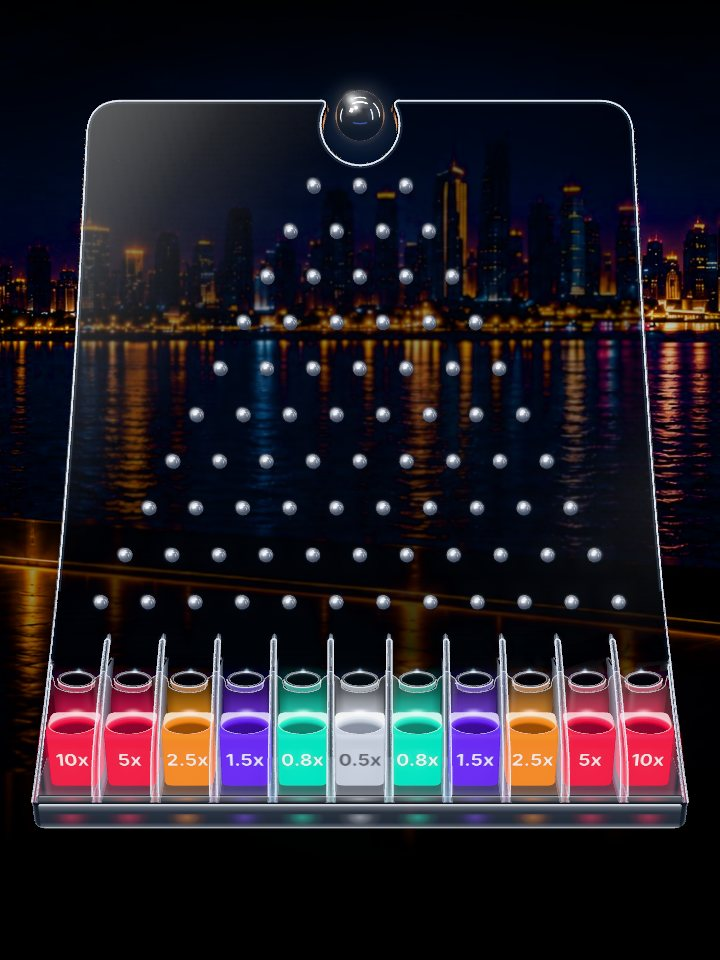
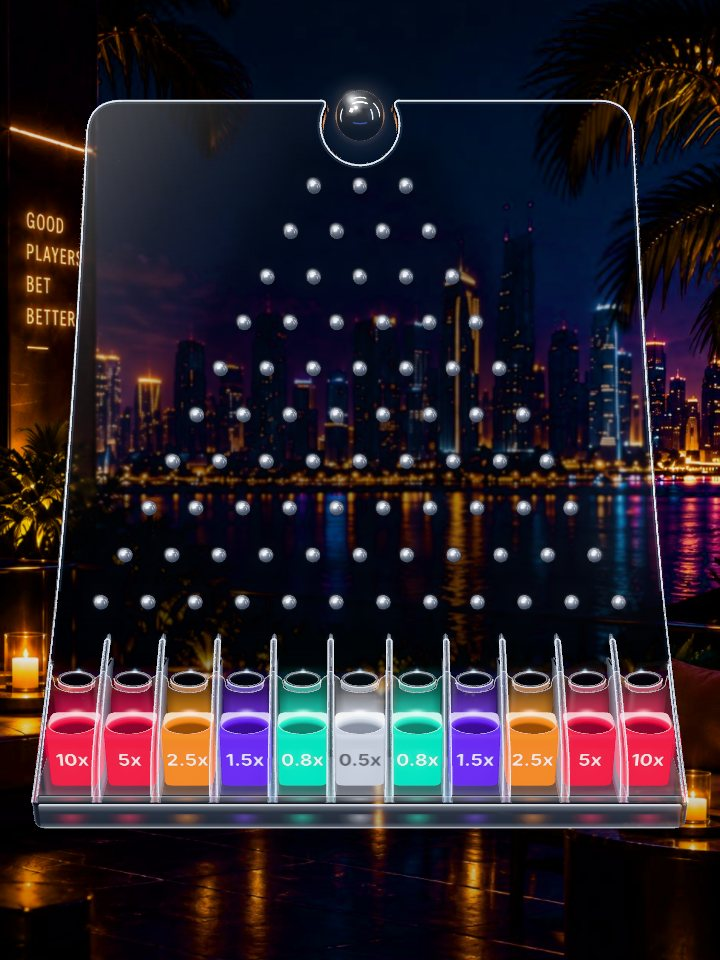
Give the Plinko backdrop a tall portrait photo for narrow screens

diff --git a/games/plinko/web/js/board/background.js b/games/plinko/web/js/board/background.js
@@ -1,50 +1,57 @@
 // The night-city backdrop, drawn in the scene so the tinted back panel can sample the
-// same pixels behind the board. Cover-fitting the photo on a phone showed about a
-// fifth of its width, which upscaled it past its resolution; a narrow screen now shows
-// at least MIN_SPAN of the width and every screen ZOOM beyond cover. The photo's band
-// is centred on the board (bandY, 0 at the bottom) and its edges fade into the ground.
+// same pixels behind the board. Two photos of one scene: a wide one and a tall one, and
+// the view shows whichever is nearer its own shape, with the photo's anchor height (0
+// at the bottom) on the board's band (bandY). A view taller than its photo crops it to
+// cover; a wider one shows ZOOM beyond cover, and until the tall photo arrives a narrow
+// view shows at least MIN_SPAN of the wide one's width, fading its edges into the ground.
 export const BACKGROUND_GLSL = `
 uniform sampler2D map;
-uniform float has, imageAspect, viewAspect, bandY;
-const float ZOOM = 1.15, MIN_SPAN = .4;
+uniform float has, imageAspect, viewAspect, bandY, anchor;
+const float ZOOM = 1.15, MIN_SPAN = .4, SATURATION = 1.12;
 
-float band(float t) {
-  if (t < .22) return mix(.92, .12, t / .22);
-  if (t < .42) return mix(.12, 0., (t - .18) / .24);
-  if (t < .66) return mix(0., .45, (t - .42) / .24);
-  if (t < .84) return mix(.45, .88, (t - .66) / .18);
-  return mix(.88, .6, (t - .84) / .16);
+float shade(float t) {
+  return .3 * (1. - smoothstep(0., .2, t)) + .35 * smoothstep(.7, 1., t);
 }
 
 vec3 backgroundAt(vec2 q) {
   vec3 c = vec3(.004, .006, .01);
   if (has > .5) {
     float r = viewAspect / imageAspect;
-    if (r > 1.) {
-      c = texture2D(map, vec2(q.x, (q.y - .5) / r + .5)).rgb;
-    } else {
-      float span = min(1., max(r * ZOOM, MIN_SPAN)), height = r / span;
-      vec2 uv = vec2((q.x - .5) * span + .5, (q.y - bandY) / height + .5);
-      float beyond = max(-uv.y, uv.y - 1.) * height;
-      c = texture2D(map, clamp(uv, 0., 1.)).rgb * (1. - smoothstep(0., .08, beyond));
-    }
+    float span = r > 1. ? 1. : min(1., max(r * ZOOM, MIN_SPAN));
+    float shown = span / r;
+    float start = anchor - bandY * shown;
+    if (shown <= 1.) start = clamp(start, 0., 1. - shown);
+    vec2 uv = vec2((q.x - .5) * span + .5, start + q.y * shown);
+    float beyond = max(-uv.y, uv.y - 1.) / shown;
+    c = texture2D(map, clamp(uv, 0., 1.)).rgb * (1. - smoothstep(0., .08, beyond));
+    c = max(mix(vec3(dot(c, vec3(.2126, .7152, .0722))), c, SATURATION), 0.);
   }
-  c *= 1. - band(1. - q.y);
+  c *= 1. - shade(1. - q.y);
   vec2 p = (q - vec2(.5, .58)) / vec2(.55, .6);
-  c *= 1. - smoothstep(.45, 1., length(p)) * .55;
+  c *= 1. - smoothstep(.45, 1., length(p)) * .2;
   return c;
 }
 `
 
-export function createBackground(kit, url, onLoad) {
+// The tall photo's tagline is painted on its pillar, so the frame's own left tagline
+// stands down while that photo shows.
+const PHOTOS = {
+  wide: { url: 'img/city.jpg', anchor: 0.5, paintsTagline: false },
+  tall: { url: 'img/city-portrait.jpg', anchor: 0.62, paintsTagline: true },
+}
+
+export function createBackground(kit, onLoad) {
   const { T, scene } = kit
   const uniforms = {
     map: { value: null },
     has: { value: 0 },
-    imageAspect: { value: 1916 / 821 },
+    imageAspect: { value: 1 },
     viewAspect: { value: 1 },
     bandY: { value: 0.5 },
+    anchor: { value: 0.5 },
   }
+  const loaded = {}
+  let shown = null
 
   const material = new T.ShaderMaterial({
     uniforms,
@@ -69,22 +76,45 @@ export function createBackground(kit, url, onLoad) {
   quad.renderOrder = -1000
   scene.add(quad)
 
-  new T.TextureLoader().load(url, (texture) => {
-    texture.colorSpace = T.SRGBColorSpace
-    texture.minFilter = T.LinearMipmapLinearFilter
-    texture.generateMipmaps = true
-    uniforms.map.value = texture
+  // The tall photo suits views narrower than the geometric mean of the two aspects.
+  function pick() {
+    const { wide, tall } = loaded
+    const choice =
+      wide && tall
+        ? uniforms.viewAspect.value < Math.sqrt(wide.aspect * tall.aspect)
+          ? tall
+          : wide
+        : (wide ?? tall ?? null)
+    shown = choice
+    if (!choice) return
+    uniforms.map.value = choice.texture
+    uniforms.imageAspect.value = choice.aspect
+    uniforms.anchor.value = choice.anchor
     uniforms.has.value = 1
-    uniforms.imageAspect.value = texture.image.width / texture.image.height
-    onLoad()
-  })
+  }
+
+  for (const [name, photo] of Object.entries(PHOTOS)) {
+    new T.TextureLoader().load(photo.url, (texture) => {
+      texture.colorSpace = T.SRGBColorSpace
+      texture.minFilter = T.LinearMipmapLinearFilter
+      texture.generateMipmaps = true
+      loaded[name] = { ...photo, texture, aspect: texture.image.width / texture.image.height }
+      pick()
+      onLoad()
+    })
+  }
 
   return {
     uniforms,
 
+    get paintsTagline() {
+      return shown?.paintsTagline ?? false
+    },
+
     resize(width, height, stage) {
       uniforms.viewAspect.value = width / height
       uniforms.bandY.value = 1 - (stage.y + stage.height * 0.42) / height
+      pick()
     },
   }
 }

diff --git a/games/plinko/web/js/board/pane.js b/games/plinko/web/js/board/pane.js
@@ -14,6 +14,7 @@ import {
   PEG_RADIUS,
   PEG_SPACING,
   ROWS,
+  ROW_BOTTOM,
   ROW_HEIGHT,
   ROW_TOP,
   TILT,
@@ -30,7 +31,7 @@ export function buildPane(kit) {
   const upper = leaningFrame(T)
   scene.add(upper)
 
-  scene.add(new T.Mesh(bentGlass(kit, shape), kit.glass({ color: 0xc4ccd8, roughness: 0.05, thickness: 0.35, envMapIntensity: 1.1 })))
+  scene.add(new T.Mesh(bentGlass(kit, shape), kit.glass({ color: 0xe8edf4, roughness: 0, thickness: 0.35, envMapIntensity: 1.1 })))
   addSheen(kit, shape)
   addRim(kit, shape)
 
@@ -129,8 +130,8 @@ function bentGlass(kit, shape) {
   return geometry
 }
 
-// A diagonal sheen across the face, over a faint dimming layer that keeps the city
-// behind the pane from competing with the pegs.
+// A diagonal sheen across the face, over a dimming layer behind the peg field alone that
+// keeps the city from competing with the pegs while the rest of the glass shows it clear.
 function addSheen(kit, shape) {
   const { T, scene } = kit
   const flat = new T.ShapeGeometry(shape, 24)
@@ -156,14 +157,44 @@ function addSheen(kit, shape) {
   ])
   const sheen = new T.Mesh(
     geometry,
-    new T.MeshBasicMaterial({ map: texture, transparent: true, opacity: 0.5, ...kit.additive, depthWrite: false, toneMapped: false }),
+    new T.MeshBasicMaterial({ map: texture, transparent: true, opacity: 0.35, ...kit.additive, depthWrite: false, toneMapped: false }),
   )
   sheen.renderOrder = 4
   scene.add(sheen)
 
-  const dim = new T.Mesh(geometry, new T.MeshBasicMaterial({ color: 0x03060c, transparent: true, opacity: 0.38, depthWrite: false }))
+  const dim = new T.Mesh(geometry, pegFieldDim(T))
   dim.renderOrder = 3
   scene.add(dim)
+}
+
+// Dark glass over the trapezoid the pegs span, half a spacing past the outer pegs and
+// feathered over one more. The sheen's UVs carry the flat pane position.
+function pegFieldDim(T) {
+  return new T.ShaderMaterial({
+    transparent: true,
+    depthWrite: false,
+    vertexShader: `
+      varying vec2 vUv;
+      void main() {
+        vUv = uv;
+        gl_Position = projectionMatrix * modelViewMatrix * vec4(position, 1.);
+      }`,
+    fragmentShader: `
+      const float SPACING = ${PEG_SPACING.toFixed(4)}, ROW_HEIGHT = ${ROW_HEIGHT.toFixed(4)};
+      const float ROW_TOP = ${ROW_TOP.toFixed(4)}, ROW_BOTTOM = ${ROW_BOTTOM.toFixed(4)};
+      const float BAY = ${BAY_HALF_WIDTH.toFixed(4)}, PANE_TOP = ${TOP.toFixed(4)};
+      const float PAD = SPACING * .5, FEATHER = SPACING, DIM = .5;
+      varying vec2 vUv;
+      void main() {
+        float x = abs(vUv.x * 2. - 1.) * BAY;
+        float y = vUv.y * PANE_TOP;
+        float halfWidth = SPACING * (1. + .5 * (ROW_TOP - y) / ROW_HEIGHT);
+        float slope = .5 * SPACING / ROW_HEIGHT;
+        float side = (x - halfWidth - PAD) / sqrt(1. + slope * slope);
+        float d = max(side, max(y - ROW_TOP - PAD, ROW_BOTTOM - PAD - y));
+        gl_FragColor = vec4(vec3(.001, .002, .004), DIM * (1. - smoothstep(0., FEATHER, d)));
+      }`,
+  })
 }
 
 // Polished edges along the pane's outline above the tray join; below it the side

diff --git a/games/plinko/web/js/ui.js b/games/plinko/web/js/ui.js
@@ -19,8 +19,10 @@ export const ui = {
   // mid-depth. That is the glass, measured down to the tagline's foot, or a host control
   // beside the board. Where the gutter has room they stand a short reach from what they
   // are beside, and no nearer the frame's edge than its inset; otherwise they centre in
-  // the gutter. When either gutter cannot hold its tagline clear, both step aside.
-  placeTaglines(board, width, controls) {
+  // the gutter. When either gutter cannot hold its tagline clear, both step aside. When
+  // the backdrop paints the left tagline itself, the left one stands down and the right
+  // one answers only to its own gutter.
+  placeTaglines(board, width, controls, leftPainted) {
     const { left, right } = this.taglines
     const centre = (board.left + board.right) / 2
     const depth = board.bottom - board.top
@@ -40,9 +42,10 @@ export const ui = {
       )
     const leftOffset = fitTagline(left, leftGutter)
     const rightOffset = fitTagline(right, rightGutter)
-    const visibility = leftOffset !== null && rightOffset !== null ? 'visible' : 'hidden'
-    Object.assign(left.style, { top: `${leftTop}px`, left: `${leftOffset ?? 0}px`, visibility })
-    Object.assign(right.style, { top: `${rightTop}px`, right: `${rightOffset ?? 0}px`, visibility })
+    const fits = rightOffset !== null && (leftPainted || leftOffset !== null)
+    const visibility = (shown) => (shown ? 'visible' : 'hidden')
+    Object.assign(left.style, { top: `${leftTop}px`, left: `${leftOffset ?? 0}px`, visibility: visibility(fits && !leftPainted) })
+    Object.assign(right.style, { top: `${rightTop}px`, right: `${rightOffset ?? 0}px`, visibility: visibility(fits) })
   },
 
   // The host formats the amount; the frame only places it. Wins read green, returns

diff --git a/games/plinko/web/js/board.js b/games/plinko/web/js/board.js
@@ -66,7 +66,7 @@ export const board = {
     this.composer = addons ? createComposer(T, addons, this.renderer, this.scene, this.camera) : null
 
     const kit = createKit(T, this.scene)
-    this.background = createBackground(kit, 'img/city.jpg', () => this.wake())
+    this.background = createBackground(kit, () => this.fit())
     this.pulses = { value: new Array(SLOTS).fill(0) }
     const pane = buildPane(kit)
     this.upper = pane.upper
@@ -99,7 +99,12 @@ export const board = {
     this.background.resize(width, height, stage)
     frameBoard(this.T, this.camera, this.upper, stage)
     this.camera.setViewOffset(stage.width, stage.height, -stage.x, -stage.y, width, height)
-    ui.placeTaglines(screenBounds(this.T, this.camera, this.upper, width, height), width, state.controls)
+    ui.placeTaglines(
+      screenBounds(this.T, this.camera, this.upper, width, height),
+      width,
+      state.controls,
+      this.background.paintsTagline,
+    )
     this.wake()
   },
 

diff --git a/docs/games/plinko-runtime.md b/docs/games/plinko-runtime.md
@@ -59,13 +59,14 @@ for what the platform took over from the vendor; nothing of its drawing code rem
 | `js/bridge.js` | The frame side of the protocol: guards origin, source, version, type, and fields |
 | `js/board.js` | The board: renderer, lighting, bloom, camera framing inside the stage rect, cup labels, the drop, the render-on-demand loop, and peg and landing tones |
 | `js/theme.js` | The cup bands (silver, teal, purple, orange, red by distance from the centre) and the label font |
-| `js/ui.js` | Tagline placement in the gutters between each frame edge and the nearest glass or host control at the tagline's own height: 40px from the glass or control beside it where the gutter has room, and never nearer the frame's edge than 40px; centred in the gutter otherwise, and hidden when a gutter cannot hold them clear; the result toast; and `formatMultiplier` |
+| `js/ui.js` | Tagline placement in the gutters between each frame edge and the nearest glass or host control at the tagline's own height: 40px from the glass or control beside it where the gutter has room, and never nearer the frame's edge than 40px; centred in the gutter otherwise, and hidden when a gutter cannot hold them clear; the left one stands down while the backdrop paints it; the result toast; and `formatMultiplier` |
 | `js/board/geometry.js` | Every dimension of the board and the curves the pane, fins, and mouths follow |
 | `js/board/kit.js` | Shared builders: canvas textures, glow sprites, highlight tubes, glass, subdivision, ribbons |
-| `js/board/background.js` | The city backdrop shader, shared with the tinted back panel so the panel samples the same pixels |
+| `js/board/background.js` | The city backdrop shader, shared with the tinted back panel so the panel samples the same pixels, and the choice between the wide and tall photos |
 | `js/board/pane.js`, `tray.js`, `fins.js`, `cups.js` | The pane and pegs; the base slab, front sheet, back panel, and opening shadow; the raked fins and side plates; the cups and drop mouths |
 | `js/board/flight.js` | The drop path to a given slot and the ball's position along it |
-| `img/city.jpg` | The 1916×821 backdrop |
+| `img/city.jpg` | The 1916×821 wide backdrop |
+| `img/city-portrait.jpg` | The 940×1672 tall backdrop of the same scene, with `GOOD PLAYERS BET BETTER` painted on its pillar |
 | `js/vendor/` | three.js 0.169.0 (`three.module.min.js`, and the postprocessing addons the bloom pass needs) with its MIT licence |
 
 three.js is vendored under `packages.md`'s rule for a supplied game's libraries: it never
@@ -99,10 +100,19 @@ at or above 1× and in grey below it.
 
 ### Backdrop
 
-A plain cover fit showed about a fifth of the photo's width on a phone, which upscaled it
-past its resolution. `js/board/background.js` shows at least 40% of the width on a narrow
-screen and 15% beyond cover on every screen, centres the photo's band on the board, and
-fades its edges into the ground; mipmaps keep desktop downscaling clean.
+The scene comes in two photos, and `js/board/background.js` shows whichever is nearer the
+view's shape: the tall one below the geometric mean of the two aspects (about 1.15), the
+wide one above it. A view taller than its photo crops it to cover, so a phone sees the
+whole width of the tall photo; a wider one shows 15% beyond cover and fades the photo's
+edges into the ground. Each photo's anchor height sits on the board's band as far as
+cover allows. Until the tall photo arrives, a narrow view shows at least 40% of the wide
+one's width. The tall photo paints the left tagline on its pillar, so the frame's own left
+tagline stands down while it shows. Mipmaps keep desktop downscaling clean.
+
+The city stays bright: a light shade at the top behind the title row and at the bottom
+behind the bet panel, a soft vignette, and a slight saturation lift. On the pane, only the
+peg field is dimmed, half a peg spacing past the outer pegs and feathered over one more,
+so the rest of the glass shows the city clear.
 
 ### Art
 

diff --git a/.claude/rules/games/plinko.md b/.claude/rules/games/plinko.md
@@ -51,7 +51,9 @@ glowing cups.
 
 `GOOD PLAYERS BET BETTER` in the left gutter and `SAME GAME BIGGER VIEWS` in the right,
 placed by `js/ui.js`, with a 44px `stageGutter` kept for them on narrow screens, and hidden
-when a gutter cannot hold them clear of the glass and the host's controls. They and the
+when a gutter cannot hold them clear of the glass and the host's controls. Where the tall
+backdrop shows, `GOOD PLAYERS BET BETTER` is the line painted on its pillar, and the
+frame's own left tagline is not drawn. They and the
 subtitle are brand art, never extended into explanatory text.
 
 ## Typefaces
